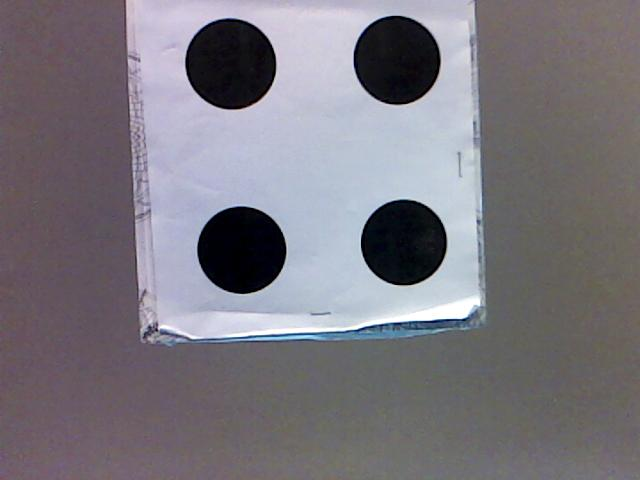
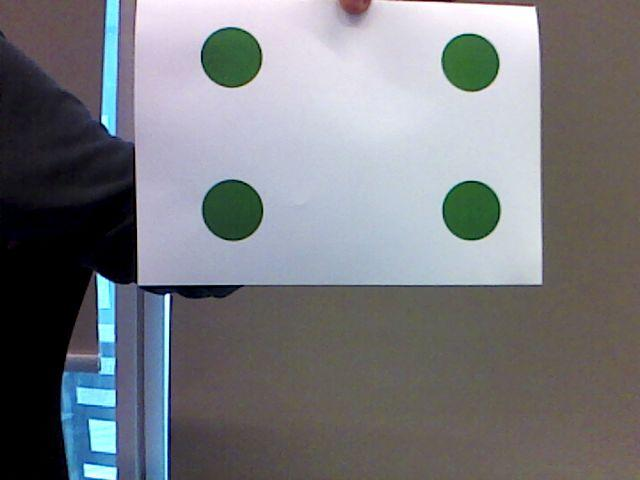
added recognition of green dots

diff --git a/TurtlebotFollower.m b/TurtlebotFollower.m
@@ -19,9 +19,10 @@ classdef TurtlebotFollower < handle
         % Setup the ROS environment, subscribers, and publishers within the
         % constructor
         function object = TurtlebotFollower(IPInput)
+            rosshutdown
             rosinit(IPInput,11311)
             [object.velPub, object.velMsg] = rospublisher("/cmd_vel", "geometry_msgs/Twist", "DataFormat", "struct");
-            object.imgSub = rossubscriber("/camera/rgb/image_raw","sensor_msgs/Image","DataFormat","struct");
+            object.imgSub = rossubscriber("/camera/color/image_raw/compressed","sensor_msgs/CompressedImage","DataFormat","struct");
             object.depthSub = rossubscriber("camera/depth/image_raw","sensor_msgs/Image","DataFormat","struct");
             object.IPAddress = IPInput;
         end
@@ -69,20 +70,20 @@ classdef TurtlebotFollower < handle
         end
 
         % Update usable depth image
-        function [ ] = udpateObsDepth(object)
+        function [ ] = updateObsDepth(object)
             object.updateDepth();
             object.obsDepth = rosReadImage(object.depthMsg);
         end
 
         function [ ] = updateCmdVel(object)
-            img = object.obsImg
-            depth = object.obsDepth
+            img = object.obsImg;
+            depth = object.obsDepth;
 
             % VISUAL SERVOING CODE %
 
-            cmdVel = ;
+            cmdVel = zeros(1,6);
 
-            object.updateCmdVel(cmdVel);
+            object.setVelocity(cmdVel(1),cmdVel(6));
         end
     end
 end

diff --git a/Test.m b/Test.m
@@ -1,0 +1,30 @@
+%% Extract green channel.
+redChannel = Turtle.obsImg(:, :, 1);
+greenChannel = Turtle.obsImg(:, :, 2);
+blueChannel = Turtle.obsImg(:, :, 3);
+%% Threshold to find the bright blobs.
+%mask = (redChannel < 128) .* (greenChannel > 128) .* (blueChannel < 128); % or whatever works.
+redMask = redChannel < 128;
+greenMask = greenChannel > 90;
+blueMask = blueChannel < 128;
+mask = redMask + greenMask + blueMask;
+mask = mask > 2;
+%% Extract only the 5 largest blobs.
+mask = bwareafilt(mask, 4);
+%% Find centroids.
+hold off
+imshow(mask)
+props = regionprops(mask, 'Centroid');
+% Extract centroids from structure into a double array.
+xy = vertcat(props.Centroid);
+
+% Convert image to grayscale
+%imageGray = im2gray(img);
+
+hold on
+axis on
+
+%%
+for i = 1:length(xy)
+    plot(xy(i,1),xy(i,2), 'r+', 'MarkerSize', 30, 'LineWidth', 2);
+end
